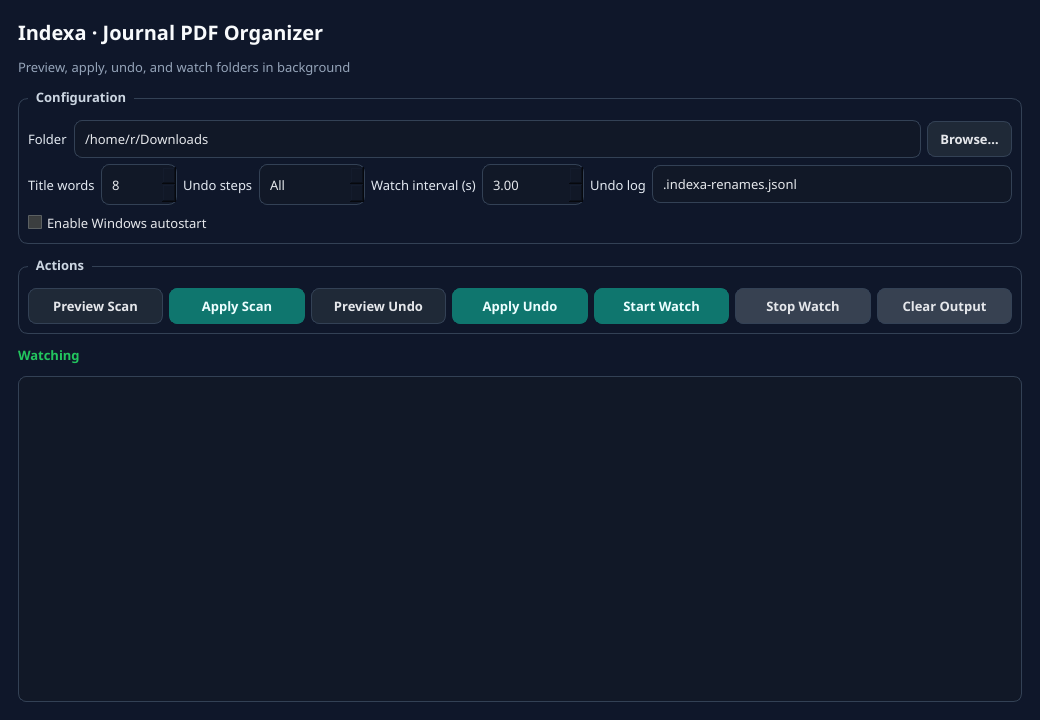
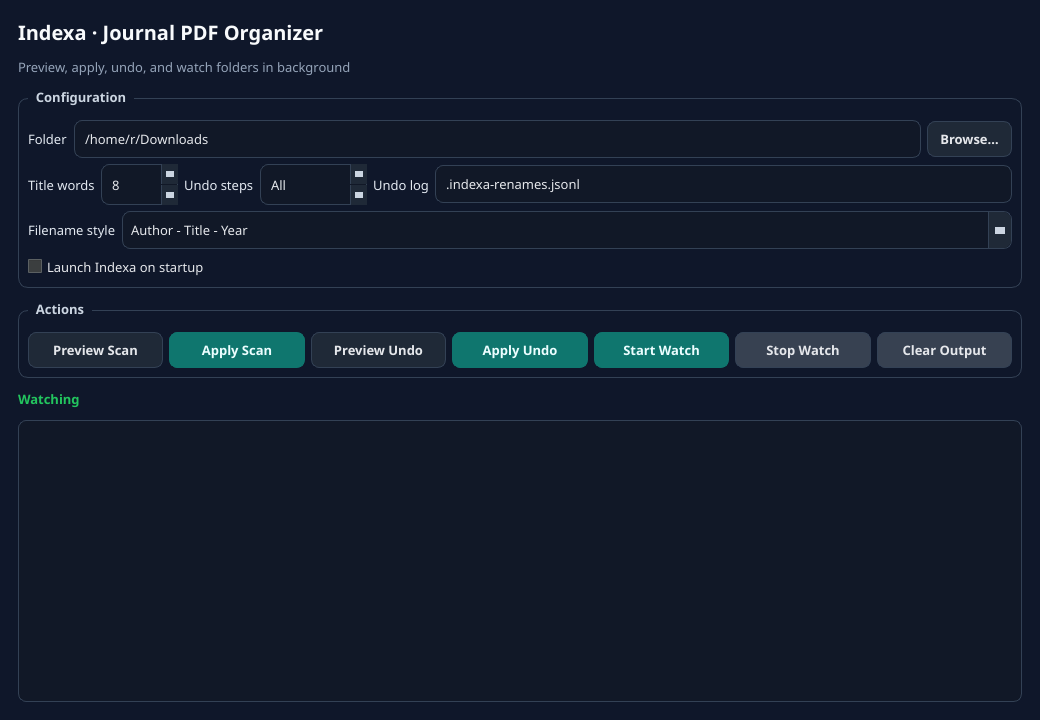
docs: refresh GUI screenshots and keep release-first README structure

Changed region(s): [[0.0, 0.2139, 0.9846, 0.5806], [0.3385, 0.2444, 0.7692, 0.3056], [0.9538, 0.3056, 0.9846, 0.3361]]

diff --git a/README.md b/README.md
@@ -1,6 +1,6 @@
 # Indexa
 
-Auto-rename downloaded journal PDFs using a canonical filename format:
+Auto-rename downloaded academic PDFs using a canonical filename format:
 
 `FirstAuthor-ShortTitle-Year.pdf`
 
@@ -18,31 +18,26 @@ And yeah… ain’t nobody got time for that.
 That constant friction is exactly why Indexa exists:  
 **download PDF → auto-name it cleanly → move on.**
 
-## What it does
+---
 
-- Scans a folder for PDFs
-- Extracts metadata from embedded PDF fields first
-- Falls back to text extraction + DOI lookup via Crossref
-- Renames files safely (collision-aware)
-- Supports dry-run mode
-- Writes an undo log for all applied renames
-- Optional watch mode for continuously renaming new downloads
+## Download (Windows)
 
-## Quick start
+Get the latest release here:
 
-```bash
-python -m venv .venv
-source .venv/bin/activate
-pip install -r requirements.txt
-```
+**https://github.com/wicksense/indexa/releases**
 
-## GUI (recommended)
+Download one of these:
 
-Run:
+- **Indexa-Setup.exe** → installable app (recommended for most users)
+- **Indexa-windows-portable.zip** → portable version (no install)
 
-```bash
-python -m indexa.gui
-```
+## Quick usage (GUI)
+
+1. Open **Indexa**
+2. Pick your folder
+3. Click **Preview Scan**
+4. If good, click **Apply Scan**
+5. (Optional) click **Start Watch** to auto-handle incoming PDFs
 
 GUI includes:
 - folder picker
@@ -50,72 +45,24 @@ GUI includes:
 - preview/apply undo
 - start/stop watch mode
 - system tray support (minimize to tray)
-- Windows autostart toggle (Run key)
+- Launch on startup toggle (Windows)
 - simple filename style presets + advanced custom template
-- title-word / interval / undo-log controls
 
 ### GUI screenshots
 
 ![Indexa GUI (latest)](assets/indexa-gui-latest.png)
 ![Indexa Watch Mode](assets/indexa-watch.png)
 
-## Windows packaging / release
+---
 
-We ship **both** Windows package types via GitHub Actions:
+## What it does
 
-- **Portable:** `Indexa-windows-portable.zip`
-- **Installable:** `Indexa-Setup.exe` (Inno Setup)
-
-Workflow: `.github/workflows/windows-release.yml`
-
-Trigger options:
-- manual: Actions → **Windows Release** → Run workflow
-- release tag: push `v*` tag (e.g. `v0.1.0`)
-
-Tag release flow:
-
-```bash
-git tag v0.1.0
-git push origin v0.1.0
-```
-
-After CI completes, download both files from workflow/release assets.
-
-## CLI
-
-### Scan once
-
-```bash
-# preview
-python -m indexa.cli scan ~/Downloads/indexa-test --dry-run
-
-# apply
-python -m indexa.cli scan ~/Downloads/indexa-test --apply
-```
-
-### Watch folder continuously
-
-```bash
-python -m indexa.cli watch <folder> --apply
-```
-
-Uses event-driven file watching (`watchdog`) + stable-file checks by default.
-If watchdog is unavailable, it falls back to interval polling (`--interval`, default 3s).
-
-Stop with `Ctrl+C`.
-
-### Undo renames
-
-```bash
-# Preview undo for all logged renames
-python -m indexa.cli undo <folder> --dry-run
-
-# Undo last 5 renames
-python -m indexa.cli undo <folder> --steps 5 --apply
-
-# Undo all renames in the log
-python -m indexa.cli undo <folder> --apply
-```
+- Scans a folder for PDFs
+- Extracts metadata from PDF content (not from original filename)
+- DOI/Crossref + arXiv lookup support
+- Renames files safely (collision-aware)
+- Supports dry-run mode
+- Writes an undo log for applied renames
 
 ## Filename rule
 
@@ -128,6 +75,40 @@ Template tokens:
 - `{short_title}`
 - `{year}`
 
-The `--title-words` flag controls how many title words are kept (default: `8`).
+---
 
-Sanitization removes filesystem-hostile characters and truncates long tokens.
+## CLI (advanced)
+
+### Scan once
+
+```bash
+python -m indexa.cli scan <folder> --dry-run
+python -m indexa.cli scan <folder> --apply
+```
+
+### Watch folder continuously
+
+```bash
+python -m indexa.cli watch <folder> --apply
+```
+
+Uses event-driven file watching (`watchdog`) when available, with fallback polling.
+
+### Undo renames
+
+```bash
+python -m indexa.cli undo <folder> --dry-run
+python -m indexa.cli undo <folder> --steps 5 --apply
+python -m indexa.cli undo <folder> --apply
+```
+
+---
+
+## Developer setup
+
+```bash
+python -m venv .venv
+source .venv/bin/activate
+pip install -r requirements.txt
+python -m indexa.gui
+```
